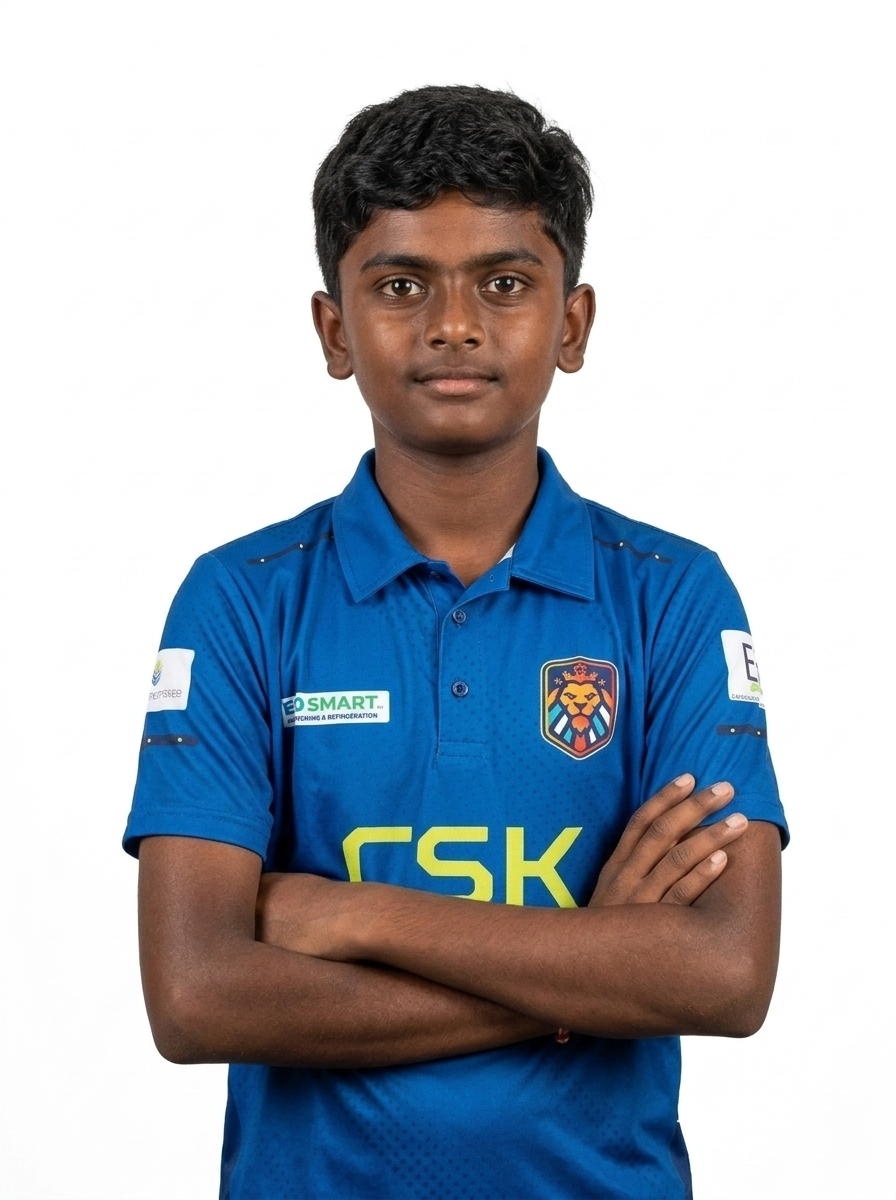
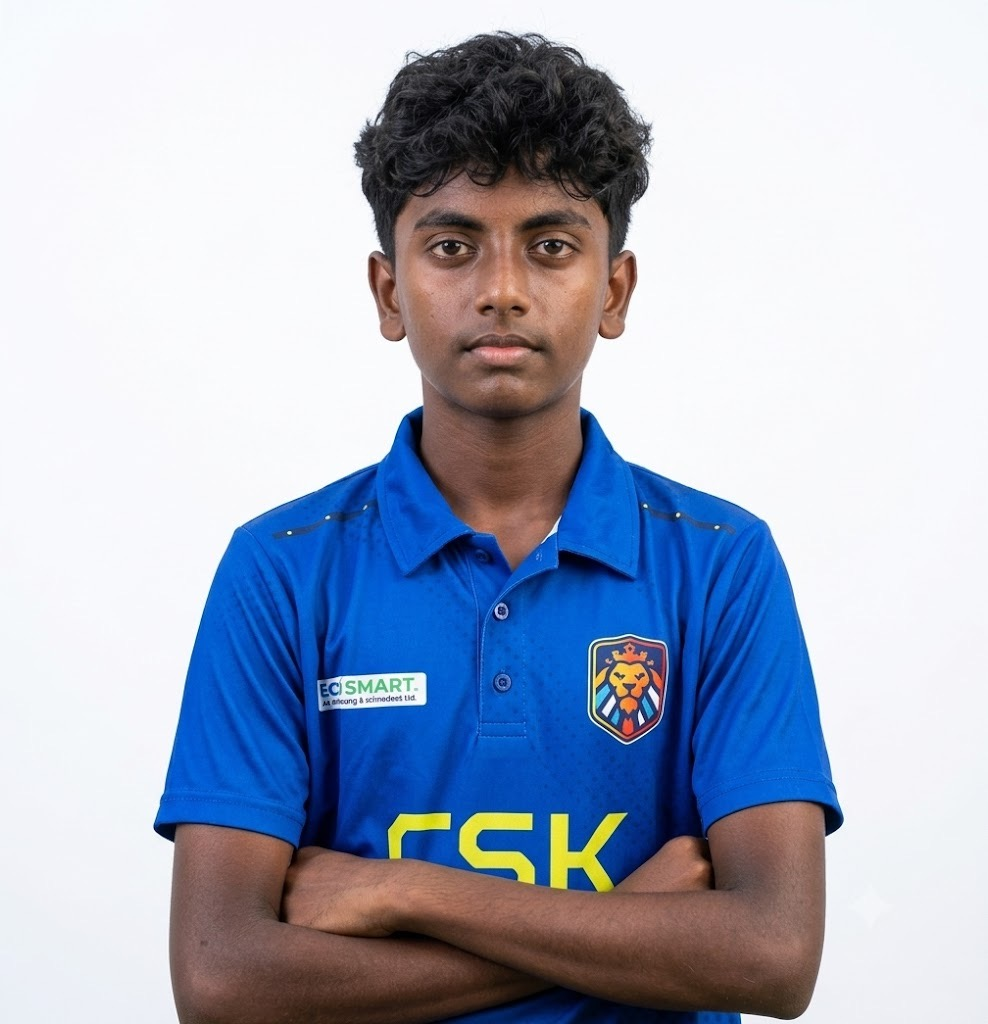
fix(squad): replace AI-generated portraits with real studio photos for Kevyn and Rishab Dev

diff --git a/js/content-store.js b/js/content-store.js
@@ -15,7 +15,7 @@ class ContentStore {
     if (!forceRefresh && this.cache[path]) return this.cache[path];
     try {
       const sep = path.includes('?') ? '&' : '?';
-      const url = forceRefresh ? `${path}${sep}_t=${Date.now()}` : `${path}${sep}v=20261019_squad_v3_royal`;
+      const url = forceRefresh ? `${path}${sep}_t=${Date.now()}` : `${path}${sep}v=20261019_squad_v4_realyouth`;
       const res = await fetch(url);
       if (!res.ok) throw new Error(`HTTP error! status: ${res.status}`);
       const data = await res.json();
